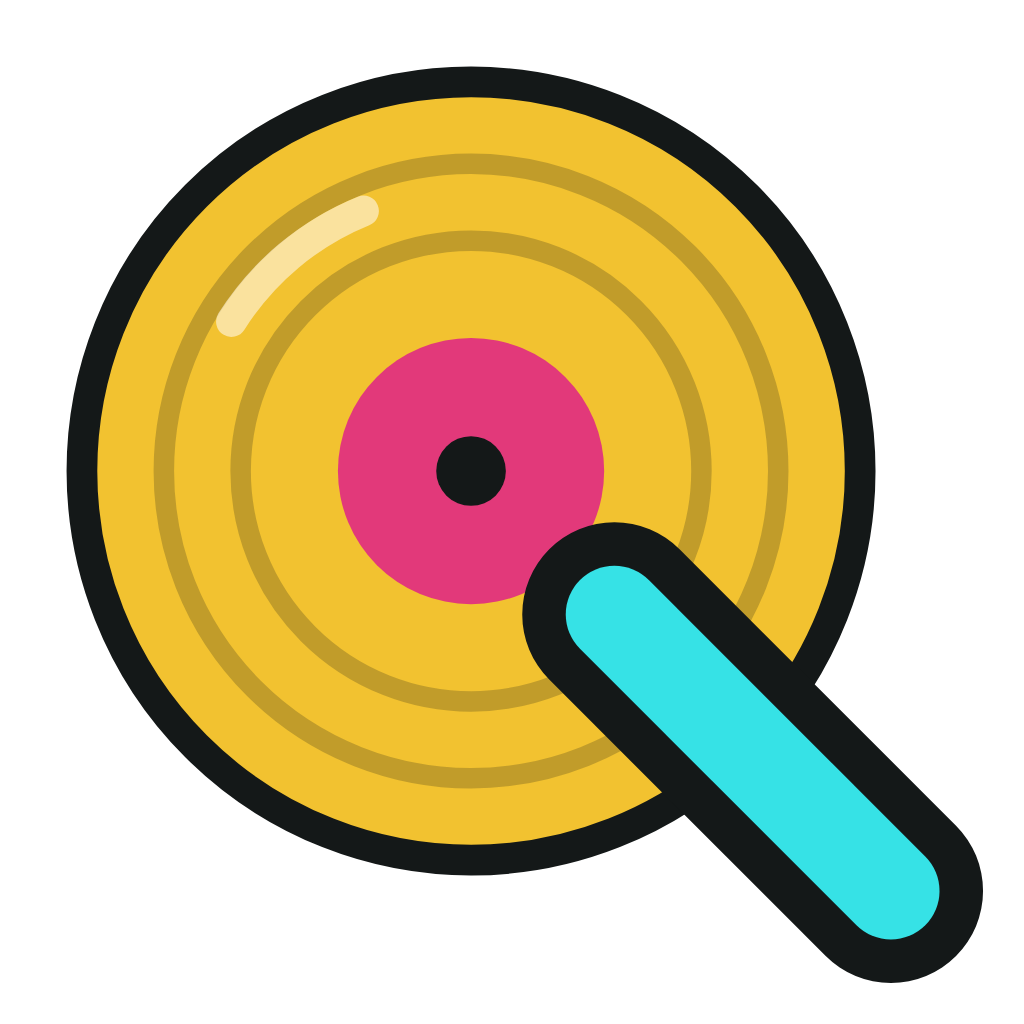
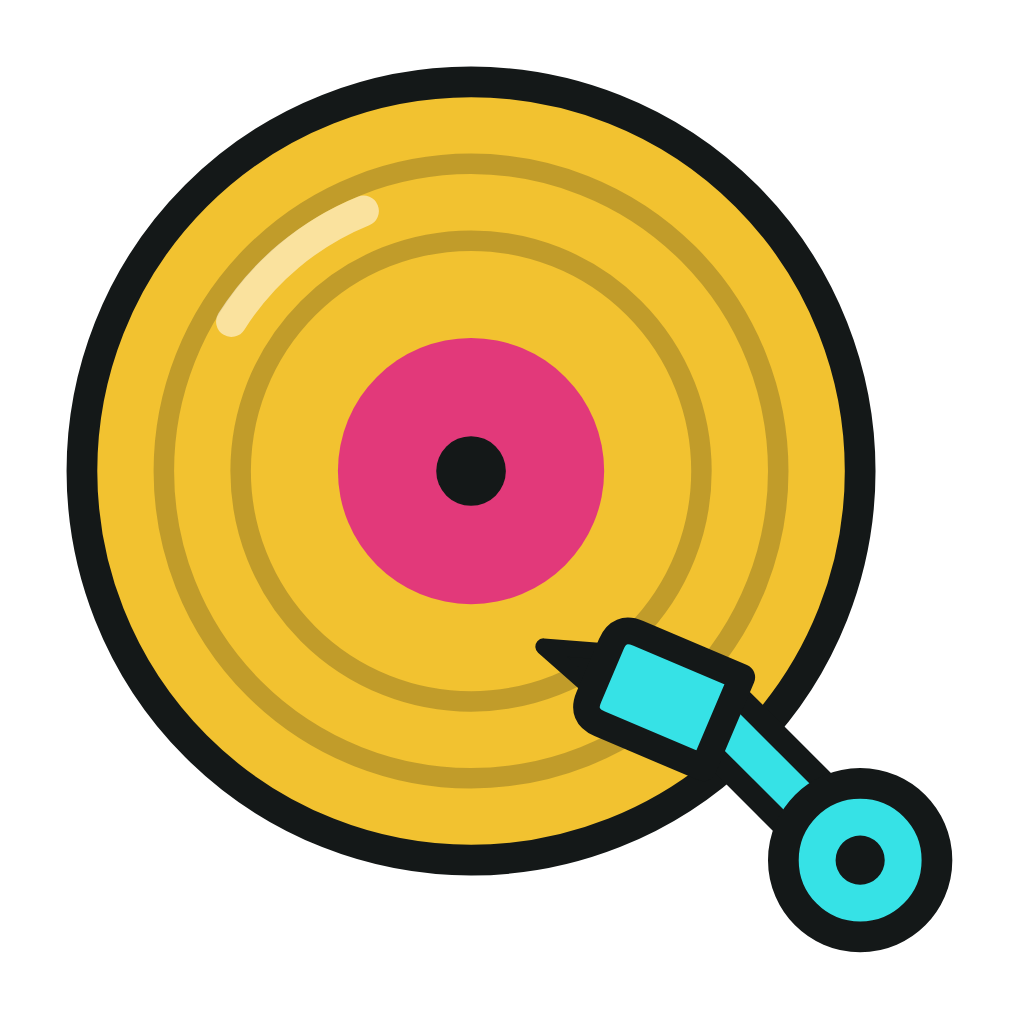
Refine marks A and D and add E, a sticker and patch badge
A's tonearm is smaller and drawn as an arm with a headshell and needle.
D's lettering is centered in the pink ring. E, Record Sunset, is a new
badge made for stickers and patches. The deck, prototype, site pages and
AGENTS.md cover all five, and the PNG export now waits for the font.

Changed region(s): [[0.5, 0.5, 0.9688, 0.9688]]

diff --git a/presentations/2026-11-04-logo-marks/index.html b/presentations/2026-11-04-logo-marks/index.html
@@ -4,7 +4,7 @@
 <meta charset="utf-8">
 <meta name="viewport" content="width=device-width, initial-scale=1, viewport-fit=cover">
 <title>Logo marks, round 1 · LSSQ Workshop</title>
-<meta name="description" content="Four first-sketch logo marks for Last Saturday Side Quest, one per slide, for review.">
+<meta name="description" content="Five logo mark sketches for Last Saturday Side Quest, one per slide, for review.">
 <link rel="preconnect" href="https://fonts.googleapis.com">
 <link rel="preconnect" href="https://fonts.gstatic.com" crossorigin>
 <link rel="stylesheet" href="https://fonts.googleapis.com/css2?family=Urbanist:wght@400;500;700;800;900&display=swap">
@@ -44,7 +44,7 @@ h2 { font-size: 52px; font-weight: 900; line-height: 1.04; text-wrap: balance; }
 .cover { grid-template-rows: auto 1fr; gap: 40px; }
 .cover-text { display: grid; gap: 16px; }
 .cover-text .sub { font-size: 24px; color: var(--muted); }
-.tiles { display: grid; grid-template-columns: repeat(4, minmax(0, 1fr)); gap: 32px; align-self: end; margin: 0; padding: 0; list-style: none; }
+.tiles { display: grid; grid-template-columns: repeat(5, minmax(0, 1fr)); gap: 28px; align-self: end; margin: 0; padding: 0; list-style: none; }
 .tiles li { position: relative; aspect-ratio: 1; display: grid; place-items: center; }
 .tiles img { width: 58%; }
 .tiles b { position: absolute; left: 18px; top: 14px; font-size: 18px; font-weight: 900; color: var(--muted); }
@@ -78,6 +78,10 @@ h2 { font-size: 52px; font-weight: 900; line-height: 1.04; text-wrap: balance; }
 .tab img { width: 16px; height: 16px; }
 .mark.patch .ig, .mark.patch .wa { background: transparent; }
 .mark.patch .ig img, .mark.patch .wa img { width: 100%; }
+.laptop { width: 116px; height: 84px; border-radius: 12px; background: var(--line); display: grid; place-items: center; }
+.laptop img { width: 66px; }
+.light { width: 64px; height: 64px; border-radius: 14px; background: var(--cream); display: grid; place-items: center; }
+.light img { width: 76%; }
 .mark-text { display: grid; align-content: center; gap: 22px; min-width: 0; }
 .mark-text .idea { font-size: 26px; line-height: 1.3; max-width: 26ch; }
 .point { display: grid; gap: 6px; }
@@ -116,7 +120,7 @@ h2 { font-size: 52px; font-weight: 900; line-height: 1.04; text-wrap: balance; }
   .slide[hidden] { display: grid; }
   h1 { font-size: 48px; } h2 { font-size: 34px; }
   .cover-text .sub, .why .body, .list, .mark-text .idea, .rec { font-size: 19px; }
-  .tiles { grid-template-columns: repeat(2, minmax(0, 1fr)); gap: 14px; }
+  .tiles { grid-template-columns: repeat(3, minmax(0, 1fr)); gap: 12px; }
   .two, .mark { grid-template-columns: 1fr; gap: 28px; }
   .mark .big { width: 200px; }
   .mark .panel { padding: 28px 20px 22px; gap: 28px; }
@@ -134,21 +138,22 @@ h2 { font-size: 52px; font-weight: 900; line-height: 1.04; text-wrap: balance; }
   <main class="viewport" id="viewport">
     <div class="stage" id="stage">
 
-      <section class="slide cover" aria-label="Slide 1 of 7: Logo marks, round 1">
+      <section class="slide cover" aria-label="Slide 1 of 8: Logo marks, round 1">
         <div class="cover-text">
           <p class="kicker">Last Saturday Side Quest</p>
           <h1>Logo marks, round 1</h1>
-          <p class="sub">Four first sketches, one per slide, for review. November 4, 2026.</p>
+          <p class="sub">Five sketches, one per slide, for review. Updated November 4, 2026.</p>
         </div>
         <ul class="tiles">
           <li class="panel"><b>A</b><img src="../../brand/marks/a-record-q.svg" alt="Option A, Record Q"></li>
           <li class="panel"><b>B</b><img src="../../brand/marks/b-quest-marker.svg" alt="Option B, Quest Marker"></li>
           <li class="panel"><b>C</b><img src="../../brand/marks/c-four-pillars.svg" alt="Option C, Four Pillars"></li>
           <li class="panel"><b>D</b><img src="../../brand/marks/d-sunset.svg" alt="Option D, Last Saturday Patch"></li>
+          <li class="panel"><b>E</b><img src="../../brand/marks/png/e-record-sunset.png" alt="Option E, Record Sunset"></li>
         </ul>
       </section>
 
-      <section class="slide why" aria-label="Slide 2 of 7: Today's badge gets lost at small sizes" hidden>
+      <section class="slide why" aria-label="Slide 2 of 8: Today's badge gets lost at small sizes" hidden>
         <h2>Today's badge gets lost at small sizes</h2>
         <div class="two">
           <div class="col">
@@ -173,7 +178,7 @@ h2 { font-size: 52px; font-weight: 900; line-height: 1.04; text-wrap: balance; }
         </div>
       </section>
 
-      <section class="slide mark" aria-label="Slide 3 of 7: Option A, Record Q" hidden>
+      <section class="slide mark" aria-label="Slide 3 of 8: Option A, Record Q" hidden>
         <div class="panel">
           <img class="big" src="../../brand/marks/a-record-q.svg" alt="Record Q: a yellow record with a pink label and a cyan tonearm as the tail of a Q">
           <ul class="sizes" aria-label="At real sizes">
@@ -185,13 +190,13 @@ h2 { font-size: 52px; font-weight: 900; line-height: 1.04; text-wrap: balance; }
         <div class="mark-text">
           <p class="kicker sun">Option A</p>
           <h2>Record Q</h2>
-          <p class="idea">The record from today's badge becomes the Q in LSSQ, and the tonearm is its tail.</p>
+          <p class="idea">The record from today's badge becomes the Q in LSSQ, and the tonearm, needle and all, is its tail.</p>
           <div class="point"><p class="label cyan">Why it could work</p><p>Closest to what people know, so it reads as a cleanup, not a rebrand.</p></div>
           <div class="point"><p class="label pink">Watch out</p><p>Yellow needs its dark outline to hold up on light backgrounds.</p></div>
         </div>
       </section>
 
-      <section class="slide mark" aria-label="Slide 4 of 7: Option B, Quest Marker" hidden>
+      <section class="slide mark" aria-label="Slide 4 of 8: Option B, Quest Marker" hidden>
         <div class="panel">
           <img class="big" src="../../brand/marks/b-quest-marker.svg" alt="Quest Marker: a yellow exclamation point on a pink diamond with a cyan shadow">
           <ul class="sizes" aria-label="At real sizes">
@@ -209,7 +214,7 @@ h2 { font-size: 52px; font-weight: 900; line-height: 1.04; text-wrap: balance; }
         </div>
       </section>
 
-      <section class="slide mark" aria-label="Slide 5 of 7: Option C, Four Pillars" hidden>
+      <section class="slide mark" aria-label="Slide 5 of 8: Option C, Four Pillars" hidden>
         <div class="panel">
           <img class="big" src="../../brand/marks/c-four-pillars.svg" alt="Four Pillars: a four-point compass star in pink, yellow, cyan and lavender">
           <ul class="sizes" aria-label="At real sizes">
@@ -227,7 +232,7 @@ h2 { font-size: 52px; font-weight: 900; line-height: 1.04; text-wrap: balance; }
         </div>
       </section>
 
-      <section class="slide mark patch" aria-label="Slide 6 of 7: Option D, Last Saturday Patch" hidden>
+      <section class="slide mark patch" aria-label="Slide 6 of 8: Option D, Last Saturday Patch" hidden>
         <div class="panel">
           <img class="big" src="../../brand/marks/png/d-patch.png" alt="Last Saturday Patch: a striped sunset over pink mountains, ringed by the words Last Saturday Side Quest">
           <ul class="sizes" aria-label="At real sizes, using the small sunset version">
@@ -245,7 +250,25 @@ h2 { font-size: 52px; font-weight: 900; line-height: 1.04; text-wrap: balance; }
         </div>
       </section>
 
-      <section class="slide pick" aria-label="Slide 7 of 7: Pick one, or mix two" hidden>
+      <section class="slide mark" aria-label="Slide 7 of 8: Option E, Record Sunset" hidden>
+        <div class="panel">
+          <img class="big" src="../../brand/marks/png/e-record-sunset.png" alt="Record Sunset: a yellow record setting like a sun behind pink mountains, in a cyan arch that reads Last Saturday, with a yellow Side Quest banner and a cream die-cut border">
+          <ul class="sizes" aria-label="As a sticker">
+            <li><span class="laptop"><img src="../../brand/marks/png/e-record-sunset.png" alt=""></span><small>On a laptop</small></li>
+            <li><span class="light"><img src="../../brand/marks/png/e-record-sunset.png" alt=""></span><small>On light</small></li>
+            <li><span class="wa"><img src="../../brand/marks/a-record-q.svg" alt=""></span><small>Avatar, with A</small></li>
+          </ul>
+        </div>
+        <div class="mark-text">
+          <p class="kicker sun">Option E &middot; New</p>
+          <h2>Record Sunset</h2>
+          <p class="idea">A's record sets like a sun behind the mountains, under the banner from today's badge.</p>
+          <div class="point"><p class="label cyan">Why it could work</p><p>Made for stickers and patches: thick outlines, a die-cut border, flat colors and big type.</p></div>
+          <div class="point"><p class="label pink">Watch out</p><p>It's for merch, not avatars. Pair it with A for small sizes.</p></div>
+        </div>
+      </section>
+
+      <section class="slide pick" aria-label="Slide 8 of 8: Pick one, or mix two" hidden>
         <h2>Pick one, or mix two</h2>
         <div class="table-wrap">
           <table>
@@ -255,10 +278,11 @@ h2 { font-size: 52px; font-weight: 900; line-height: 1.04; text-wrap: balance; }
               <tr><td><span class="opt"><img src="../../brand/marks/b-quest-marker.svg" alt="">B, Quest Marker</span></td><td>Boldest, easiest to spot</td><td>No music in the mark</td><td><span class="call" aria-label="Blank, for your call"></span></td></tr>
               <tr><td><span class="opt"><img src="../../brand/marks/c-four-pillars.svg" alt="">C, Four Pillars</span></td><td>Tells the whole story</td><td>Needs a one-color version</td><td><span class="call" aria-label="Blank, for your call"></span></td></tr>
               <tr><td><span class="opt"><img src="../../brand/marks/d-sunset.svg" alt="">D, Patch</span></td><td>Great on merch</td><td>Text too small for avatars</td><td><span class="call" aria-label="Blank, for your call"></span></td></tr>
+              <tr><td><span class="opt"><img src="../../brand/marks/png/e-record-sunset.png" alt="">E, Record Sunset</span></td><td>Stickers and patches</td><td>Merch only, pair with A</td><td><span class="call" aria-label="Blank, for your call"></span></td></tr>
             </tbody>
           </table>
         </div>
-        <p class="rec"><b>Starting point: A, Record Q.</b> It keeps the record people know and still reads at 16px. Mixes work too, like A in C's four colors.</p>
+        <p class="rec"><b>Starting point: A for the mark, E for stickers.</b> They share the record people know, and A still reads at 16px. Other mixes work too, like A in C's four colors.</p>
       </section>
 
     </div>
@@ -269,7 +293,7 @@ h2 { font-size: 52px; font-weight: 900; line-height: 1.04; text-wrap: balance; }
     <span class="hint">Use the arrow keys to move between slides</span>
     <div class="controls">
       <button type="button" id="prev" aria-label="Previous slide">Back</button>
-      <span class="count" id="count" aria-live="polite">1 / 7</span>
+      <span class="count" id="count" aria-live="polite">1 / 8</span>
       <button type="button" id="next" aria-label="Next slide">Next</button>
     </div>
   </nav>

diff --git a/prototypes/logo-marks/index.html b/prototypes/logo-marks/index.html
@@ -58,6 +58,8 @@ h2{margin:-10px 0 0;font-family:var(--display);font-weight:900;font-size:clamp(3
 .light svg{width:74%;height:74%}
 .patch-mark .ig svg,.patch-mark .wa svg,.patch-mark .light svg{width:100%;height:100%}
 .patch-mark .ig,.patch-mark .wa{background:transparent}
+.laptop{width:132px;height:96px;border-radius:12px;background:var(--ink-3);display:grid;place-items:center}
+.laptop svg{width:76px;height:76px}
 
 footer{display:grid;gap:12px;max-width:68ch;padding-top:40px;border-top:1px solid var(--ink-3)}
 footer h2{margin:0;font-size:28px}
@@ -86,8 +88,16 @@ footer p{margin:0;color:var(--muted)}
       <path d="M22.6 31.4 A27.5 27.5 0 0 1 35.5 20.6" fill="none" stroke="#FFF6E8" stroke-opacity=".6" stroke-width="3" stroke-linecap="round"/>
       <circle cx="46" cy="46" r="13" fill="#E2397A"/>
       <circle cx="46" cy="46" r="3.4" fill="#141818"/>
-      <line x1="60" y1="60" x2="87" y2="87" stroke="#141818" stroke-width="18" stroke-linecap="round"/>
-      <line x1="60" y1="60" x2="87" y2="87" stroke="#36E2E6" stroke-width="9.5" stroke-linecap="round"/>
+      <g transform="translate(84 84) rotate(225)" stroke-linejoin="round">
+        <line x1="0" y1="0" x2="20" y2="0" stroke="#141818" stroke-width="8" stroke-linecap="round"/>
+        <line x1="0" y1="0" x2="20" y2="0" stroke="#36E2E6" stroke-width="3.6" stroke-linecap="round"/>
+        <g transform="translate(19 0) rotate(-22)">
+          <path d="M13 -2 L19 0 L13 2 Z" fill="#141818" stroke="#141818" stroke-width="1.6"/>
+          <path d="M0 -4.8 H11 Q13 -4.8 13 -2.8 V2.8 Q13 4.8 11 4.8 H0 Z" fill="#36E2E6" stroke="#141818" stroke-width="2.6"/>
+        </g>
+        <circle r="7.5" fill="#36E2E6" stroke="#141818" stroke-width="3"/>
+        <circle r="2.4" fill="#141818"/>
+      </g>
     </symbol>
 
     <!-- B: the "!" that marks a side quest in a video game. -->
@@ -129,6 +139,52 @@ footer p{margin:0;color:var(--muted)}
         <line x1="50" y1="78" x2="50" y2="99" stroke="#F2C230" stroke-width="1.6" stroke-dasharray="3 3"/>
       </g>
     </symbol>
+
+    <!-- E: a sticker and patch. A's record sets like a sun behind the mountains, under the banner from today's badge. -->
+    <path id="e-arch" d="M18 96 A82 82 0 0 1 182 96 V164 H18 Z"/>
+    <path id="e-window" d="M42 96 A58 58 0 0 1 158 96 V164 H42 Z"/>
+    <path id="e-tail-l" d="M30 146 H0 L9 163 L0 180 H30 Z"/>
+    <path id="e-tail-r" d="M170 146 H200 L191 163 L200 180 H170 Z"/>
+    <rect id="e-face" x="16" y="134" width="168" height="34" rx="2"/>
+    <path id="e-arc" d="M35.6 96 A64.4 64.4 0 0 1 164.4 96"/>
+    <clipPath id="e-clip"><use href="#e-window"/></clipPath>
+    <symbol id="m-badge" viewBox="-11 -10 222 222">
+      <g transform="translate(0 4)">
+        <g fill="#FFF6E8" stroke="#FFF6E8" stroke-width="20" stroke-linejoin="round">
+          <use href="#e-arch"/><use href="#e-tail-l"/><use href="#e-tail-r"/><use href="#e-face"/>
+        </g>
+        <g fill="#141818" stroke="#141818" stroke-width="6" stroke-linejoin="round">
+          <use href="#e-arch"/><use href="#e-tail-l"/><use href="#e-tail-r"/><use href="#e-face"/>
+        </g>
+        <use href="#e-arch" fill="#36E2E6"/>
+        <text font-family="Urbanist, system-ui, sans-serif" font-weight="900" font-size="16" letter-spacing="2" fill="#141818" text-anchor="middle"><textPath href="#e-arc" startOffset="50%">LAST SATURDAY</textPath></text>
+        <circle cx="30" cy="118" r="3.5" fill="#141818"/>
+        <circle cx="170" cy="118" r="3.5" fill="#141818"/>
+        <use href="#e-window" fill="#141818" stroke="#141818" stroke-width="5"/>
+        <g clip-path="url(#e-clip)">
+          <circle cx="100" cy="110" r="36" fill="#F2C230"/>
+          <circle cx="100" cy="110" r="28" fill="none" stroke="#141818" stroke-opacity=".22" stroke-width="2"/>
+          <circle cx="100" cy="110" r="20.5" fill="none" stroke="#141818" stroke-opacity=".22" stroke-width="2"/>
+          <path d="M77.9 96.6 A25.5 25.5 0 0 1 89.6 86.8" fill="none" stroke="#FFF6E8" stroke-opacity=".6" stroke-width="3" stroke-linecap="round"/>
+          <circle cx="100" cy="110" r="11.5" fill="#E2397A"/>
+          <circle cx="100" cy="110" r="3" fill="#141818"/>
+          <path d="M36 134 L64 110 L100 140 L138 104 L164 126 V170 H36 Z" fill="#E2397A" stroke="#141818" stroke-width="3" stroke-linejoin="round"/>
+          <g fill="#FFF6E8" stroke-linejoin="round">
+            <path d="M64 71 L66.1 75.9 L71 78 L66.1 80.1 L64 85 L61.9 80.1 L57 78 L61.9 75.9 Z" fill="#B79CF0" stroke="#B79CF0" stroke-width="1.2"/>
+            <path d="M136 65 L137.8 69.2 L142 71 L137.8 72.8 L136 77 L134.2 72.8 L130 71 L134.2 69.2 Z" stroke="#FFF6E8" stroke-width="1.2"/>
+            <path d="M87 49.5 L88.35 52.65 L91.5 54 L88.35 55.35 L87 58.5 L85.65 55.35 L82.5 54 L85.65 52.65 Z" stroke="#FFF6E8" stroke-width="1.2"/>
+          </g>
+        </g>
+        <g stroke="#141818" stroke-width="4" stroke-linejoin="round">
+          <use href="#e-tail-l" fill="#F2C230"/>
+          <use href="#e-tail-r" fill="#F2C230"/>
+          <path d="M16 168 H30 V180 Z" fill="#141818"/>
+          <path d="M184 168 H170 V180 Z" fill="#141818"/>
+          <use href="#e-face" fill="#F2C230"/>
+        </g>
+        <text x="100" y="158.7" font-family="Urbanist, system-ui, sans-serif" font-weight="900" font-size="22" letter-spacing="1.5" fill="#141818" text-anchor="middle">SIDE QUEST</text>
+      </g>
+    </symbol>
   </defs>
 </svg>
 
@@ -152,7 +208,7 @@ footer p{margin:0;color:var(--muted)}
     <div class="info">
       <p class="letter">Option A</p>
       <h2>Record Q</h2>
-      <p class="idea">The record from today's badge becomes the Q in LSSQ, and the tonearm becomes its tail.</p>
+      <p class="idea">The record from today's badge becomes the Q in LSSQ, and the tonearm, needle and all, becomes its tail.</p>
       <p>This is the closest to what people already know, so it reads as a cleanup rather than a rebrand. Music is the pillar it puts first.</p>
       <div class="lockup"><svg viewBox="0 0 100 100" aria-hidden="true"><use href="#m-record"/></svg><span class="wm">Last Saturday<br>Side Quest</span></div>
       <ul class="sizes" aria-label="Record Q at real sizes">
@@ -208,15 +264,15 @@ footer p{margin:0;color:var(--muted)}
       <div class="lockup patch">
         <svg viewBox="0 0 200 200" aria-hidden="true">
           <defs>
-            <path id="arc-top" d="M22 100 A78 78 0 0 1 178 100"/>
-            <path id="arc-bottom" d="M10 100 A90 90 0 0 0 190 100"/>
+            <path id="arc-top" d="M25.3 100 A74.7 74.7 0 0 1 174.7 100"/>
+            <path id="arc-bottom" d="M12.7 100 A87.3 87.3 0 0 0 187.3 100"/>
           </defs>
           <circle cx="100" cy="100" r="96" fill="#E2397A"/>
           <circle cx="100" cy="100" r="66" fill="#141818"/>
           <text font-family="Urbanist, system-ui, sans-serif" font-weight="900" font-size="18" letter-spacing="2.5" fill="#141818" text-anchor="middle"><textPath href="#arc-top" startOffset="50%">LAST SATURDAY</textPath></text>
           <text font-family="Urbanist, system-ui, sans-serif" font-weight="900" font-size="18" letter-spacing="2.5" fill="#141818" text-anchor="middle"><textPath href="#arc-bottom" startOffset="50%">SIDE QUEST</textPath></text>
-          <circle cx="16" cy="100" r="4" fill="#141818"/>
-          <circle cx="184" cy="100" r="4" fill="#141818"/>
+          <circle cx="19" cy="100" r="4" fill="#141818"/>
+          <circle cx="181" cy="100" r="4" fill="#141818"/>
           <use href="#m-sunset" x="36" y="36" width="128" height="128"/>
         </svg>
         <span class="note">The full patch, for stickers, shirts and the top of the site.</span>
@@ -230,9 +286,24 @@ footer p{margin:0;color:var(--muted)}
     </div>
   </section>
 
+  <section class="opt" id="sticker">
+    <div class="stage"><svg viewBox="0 0 200 200" role="img" aria-label="Record Sunset badge: a yellow record setting like a sun behind pink mountains, framed by a cyan arch that reads Last Saturday, with a yellow Side Quest banner and a cream die-cut border"><use href="#m-badge"/></svg></div>
+    <div class="info">
+      <p class="letter">Option E &middot; New</p>
+      <h2>Record Sunset</h2>
+      <p class="idea">A's record sets like a sun behind the mountains, under the banner from today's badge. It's made to be a sticker or a sew-on patch.</p>
+      <p>Thick outlines, a die-cut border, flat colors and big type, so it holds up printed or embroidered. It's for merch, so it pairs with A for avatars and the browser tab.</p>
+      <ul class="sizes" aria-label="Record Sunset as a sticker">
+        <li><span class="laptop"><svg viewBox="0 0 200 200" aria-hidden="true"><use href="#m-badge"/></svg></span><small>On a laptop</small></li>
+        <li><span class="light"><svg viewBox="0 0 200 200" aria-hidden="true"><use href="#m-badge"/></svg></span><small>On light</small></li>
+        <li><span class="wa"><svg viewBox="0 0 100 100" aria-hidden="true"><use href="#m-record"/></svg></span><small>Avatar, with A</small></li>
+      </ul>
+    </div>
+  </section>
+
   <footer>
     <h2>Picking one</h2>
-    <p>These are first sketches meant to set a direction. Pick a letter, or mix two (for example, A's record in C's four colors). The chosen mark then gets refined, plus a one-color version for stamps and screen prints, before it goes to Jake.</p>
+    <p>These are sketches meant to set a direction. Pick a letter, or mix two (for example, A for avatars and E for stickers, or A's record in C's four colors). The chosen mark then gets refined, plus a one-color version for stamps and screen prints, before it goes to Jake.</p>
   </footer>
 </main>
 

diff --git a/presentations/index.html b/presentations/index.html
@@ -40,9 +40,9 @@
         <span><img src="../brand/marks/d-sunset.svg" alt=""></span>
       </div>
       <div class="body">
-        <p class="meta"><time datetime="2026-11-04">Nov 4, 2026</time> · 7 slides · <span class="pill now">In review</span></p>
+        <p class="meta"><time datetime="2026-11-04">Nov 4, 2026</time> · 8 slides · <span class="pill now">In review</span></p>
         <h2>Logo marks, round 1</h2>
-        <p>One slide per mark for review: Record Q, Quest Marker, Four Pillars and Last Saturday Patch. Each is shown at Instagram, WhatsApp and browser-tab sizes.</p>
+        <p>One slide per mark for review: Record Q, Quest Marker, Four Pillars, Last Saturday Patch and the new Record Sunset sticker. Each is shown at the sizes it has to work at.</p>
         <div class="actions">
           <a class="btn primary" href="2026-11-04-logo-marks/">Open the deck</a>
           <a class="btn" href="../prototypes/logo-marks/">Open the prototype</a>

diff --git a/index.html b/index.html
@@ -44,7 +44,7 @@
       <div class="body">
         <p><span class="pill now">In review</span></p>
         <h2 id="now-title">Logo marks, round 1</h2>
-        <p>Four first sketches of a simple mark that works everywhere from a 16px browser tab up to a banner. Each one keeps the colors and the 80s feel of today's badge. Steve is reviewing them one by one.</p>
+        <p>Five sketches: four simple marks that work everywhere from a 16px browser tab up to a banner, plus a badge made for stickers and patches. Each one keeps the colors and the 80s feel of today's badge. Steve is reviewing them one by one.</p>
         <div class="actions">
           <a class="btn primary" href="prototypes/logo-marks/">Open the current prototype</a>
           <a class="btn" href="presentations/2026-11-04-logo-marks/">See the deck</a>

diff --git a/tools/render.html b/tools/render.html
@@ -14,9 +14,12 @@
 <div id="mark"></div>
 <script>
   const name = new URLSearchParams(location.search).get('m');
-  fetch(`../brand/marks/${name}.svg`).then(r => r.text()).then(svg => {
-    document.getElementById('mark').innerHTML = svg;
-  });
+  // Wait for Urbanist first, so marks with lettering never export with blank text.
+  document.fonts.load('900 20px Urbanist')
+    .then(() => fetch(`../brand/marks/${name}.svg`))
+    .then(r => r.text()).then(svg => {
+      document.getElementById('mark').innerHTML = svg;
+    });
 </script>
 </body>
 </html>

diff --git a/AGENTS.md b/AGENTS.md
@@ -9,7 +9,7 @@ Last updated: November 4, 2026.
 - **What:** an open, public workshop where Steve Gordon designs a new logo, an easier website and event tools for Last Saturday Side Quest (LSSQ).
 - **Why:** Steve loves LSSQ and wants a regular back-and-forth with Jake, who runs it, and to show what he can do for them if they want it.
 - **Done when:** Jake has seen a logo direction and a working site he can edit himself, and he and Steve have a regular check-in.
-- **Right now:** round 1 logo marks are drawn, and the review deck is built. Waiting on Steve to review each mark and pick a direction.
+- **Right now:** round 1 logo marks are drawn and the review deck is built. Steve's first notes are in (see Decisions). Waiting on him to pick a direction.
 - **Live site:** https://sgordon1024.github.io/lssq/
 - **Repo:** https://github.com/sgordon1024/lssq (public, `main` is live)
 
@@ -59,9 +59,10 @@ Steve also wants a regular check-in with Jake. Setting that up is Steve's job.
 | --- | --- | --- |
 | Review the current site and logo | Done | Findings above |
 | Sketch logo mark options (round 1) | Done | `prototypes/logo-marks/`, `brand/marks/` |
+| Steve's first review notes (A, D, new E) | Done | See Decisions |
 | Public repo and project site | Done | This repo, GitHub Pages |
 | Logo marks review deck | Done | `presentations/2026-11-04-logo-marks/` |
-| Steve reviews each mark and picks a direction | **Waiting on Steve** | Deck slide 7 has a "Your call" column |
+| Steve reviews each mark and picks a direction | **Waiting on Steve** | Deck slide 8 has a "Your call" column |
 | Refine the chosen mark, plus a one-color version | Not started | |
 | Show Jake the logo | Not started (Steve) | |
 | Set a regular check-in with Jake | Not started (Steve) | |
@@ -73,16 +74,19 @@ Steve also tracks this in his own task app (Master Tasker). You can't see it, so
 
 ## Round 1 logo marks
 
-All four keep LSSQ's colors. SVGs are in `brand/marks/`, PNG exports in `brand/marks/png/`.
+All five keep LSSQ's colors. SVGs are in `brand/marks/`, PNG exports in `brand/marks/png/`. A to D are marks; E is a badge for stickers and patches.
 
 | Option | File | Idea | Why it could work | Watch out |
 | --- | --- | --- | --- | --- |
-| A, Record Q | `a-record-q.svg` | The record from today's badge becomes the Q in LSSQ; the tonearm is its tail. | Closest to what people know, so it reads as a cleanup, not a rebrand. | Yellow needs its dark outline on light backgrounds. |
+| A, Record Q | `a-record-q.svg` | The record from today's badge becomes the Q in LSSQ; the tonearm (pivot, arm, angled headshell and needle) is its tail. | Closest to what people know, so it reads as a cleanup, not a rebrand. | Yellow needs its dark outline on light backgrounds. |
 | B, Quest Marker | `b-quest-marker.svg` | The "!" that floats over a side quest in a video game. | Boldest and simplest; easiest to spot in a feed. | Drops the record, so music isn't in the mark. |
 | C, Four Pillars | `c-four-pillars.svg` | A compass star, one point per pillar (pink music, yellow play, cyan wellness, lavender connection). | Tells the whole LSSQ story; colors can carry into the site. | Hard to print in one ink; needs a one-color version. |
 | D, Last Saturday Patch | `d-patch.svg` (full), `d-sunset.svg` (small) | A striped sunset over mountains with the road in, ringed like a camp patch. | Most outdoors and nomad. Small version is just the sunset. | The full patch's text is too small for avatars. |
+| E, Record Sunset | `e-record-sunset.svg` | A's record sets like a sun behind pink mountains, in a cyan arch that reads LAST SATURDAY, under a yellow SIDE QUEST banner like today's. Cream die-cut border. | Made for stickers and embroidered patches: thick outlines, flat colors, big type. Steve loves the badge idea. | Merch only. Pair it with A for avatars and the browser tab. |
 
-The starting recommendation is **A**. It isn't decided; Steve picks. Mixes are fine (for example, A in C's four colors).
+The starting recommendation is **A for the mark and E for stickers and patches**. It isn't decided; Steve picks. Mixes are fine (for example, A in C's four colors).
+
+Lettering in the badges (D and E) sits on curved paths. To center it in a band, put the baseline half a cap height off the band's middle radius (Urbanist's cap height is 0.7 of the font size): inward for text on top, outward for text along the bottom.
 
 ## Brand
 
@@ -109,8 +113,8 @@ The starting recommendation is **A**. It isn't decided; Steve picks. Mixes are f
 | `presentations/index.html` | List of every deck, newest first |
 | `presentations/YYYY-MM-DD-name/index.html` | One deck. Self-contained HTML slides |
 | `prototypes/logo-marks/index.html` | The current prototype: all four marks at real sizes |
-| `brand/marks/*.svg` | Each mark, 100 × 100 viewBox (the full patch is 200 × 200) |
-| `brand/marks/png/*.png` | 1024px transparent PNG exports of each SVG |
+| `brand/marks/*.svg` | Each mark, 100 × 100 viewBox (D's full patch is 200 × 200, and E is 222 × 222 to leave room for its die-cut border) |
+| `brand/marks/png/*.png` | 1024px transparent PNG exports of each SVG. Use these, not the SVGs, wherever a mark with lettering (D's patch, E) is shown as an image, since an SVG in an `<img>` can't load Urbanist |
 | `assets/site.css` | Shared styles for the home and presentations pages |
 | `tools/export-marks.sh` | Re-exports every SVG to PNG (needs Google Chrome and python3, macOS) |
 | `tools/render.html` | Used by the export script |
@@ -168,10 +172,11 @@ Edit the `<!-- Keep this card pointed at whatever is being worked on right now. 
 | Nov 4, 2026 | Decks are HTML pages in `presentations/`, not Google Slides. |
 | Nov 4, 2026 | Every mark keeps the current logo's colors and 80s feel. Urbanist is the type. |
 | Nov 4, 2026 | Coordinate with Jake through Steve only. |
+| Nov 4, 2026 | Steve's first notes: make A's tonearm smaller and look like an arm with a needle, not a pill; center D's lettering in the pink ring; he loves the badge idea, so add one made for stickers and patches (became E). All three are done. |
 
 ## Open questions
 
-- **Which mark?** Steve is reviewing round 1. The recommendation is A.
+- **Which mark?** Steve is reviewing round 1. The recommendation is A for the mark, with E for stickers and patches.
 - **How will Jake edit the site?** It needs to be very simple, with a preview and a pull request. Options to compare when step 2 starts: editing a content file in GitHub's web editor, or a Git-based editor such as Pages CMS, Decap CMS or TinaCMS. Nothing is decided.
 - **Where will the rebuilt site live?** It could stay on GitHub Pages, with or without a custom domain. Jake decides.
 - **Event chat:** WhatsApp Communities, Discord, Geneva or something custom. Decide with Jake later.
